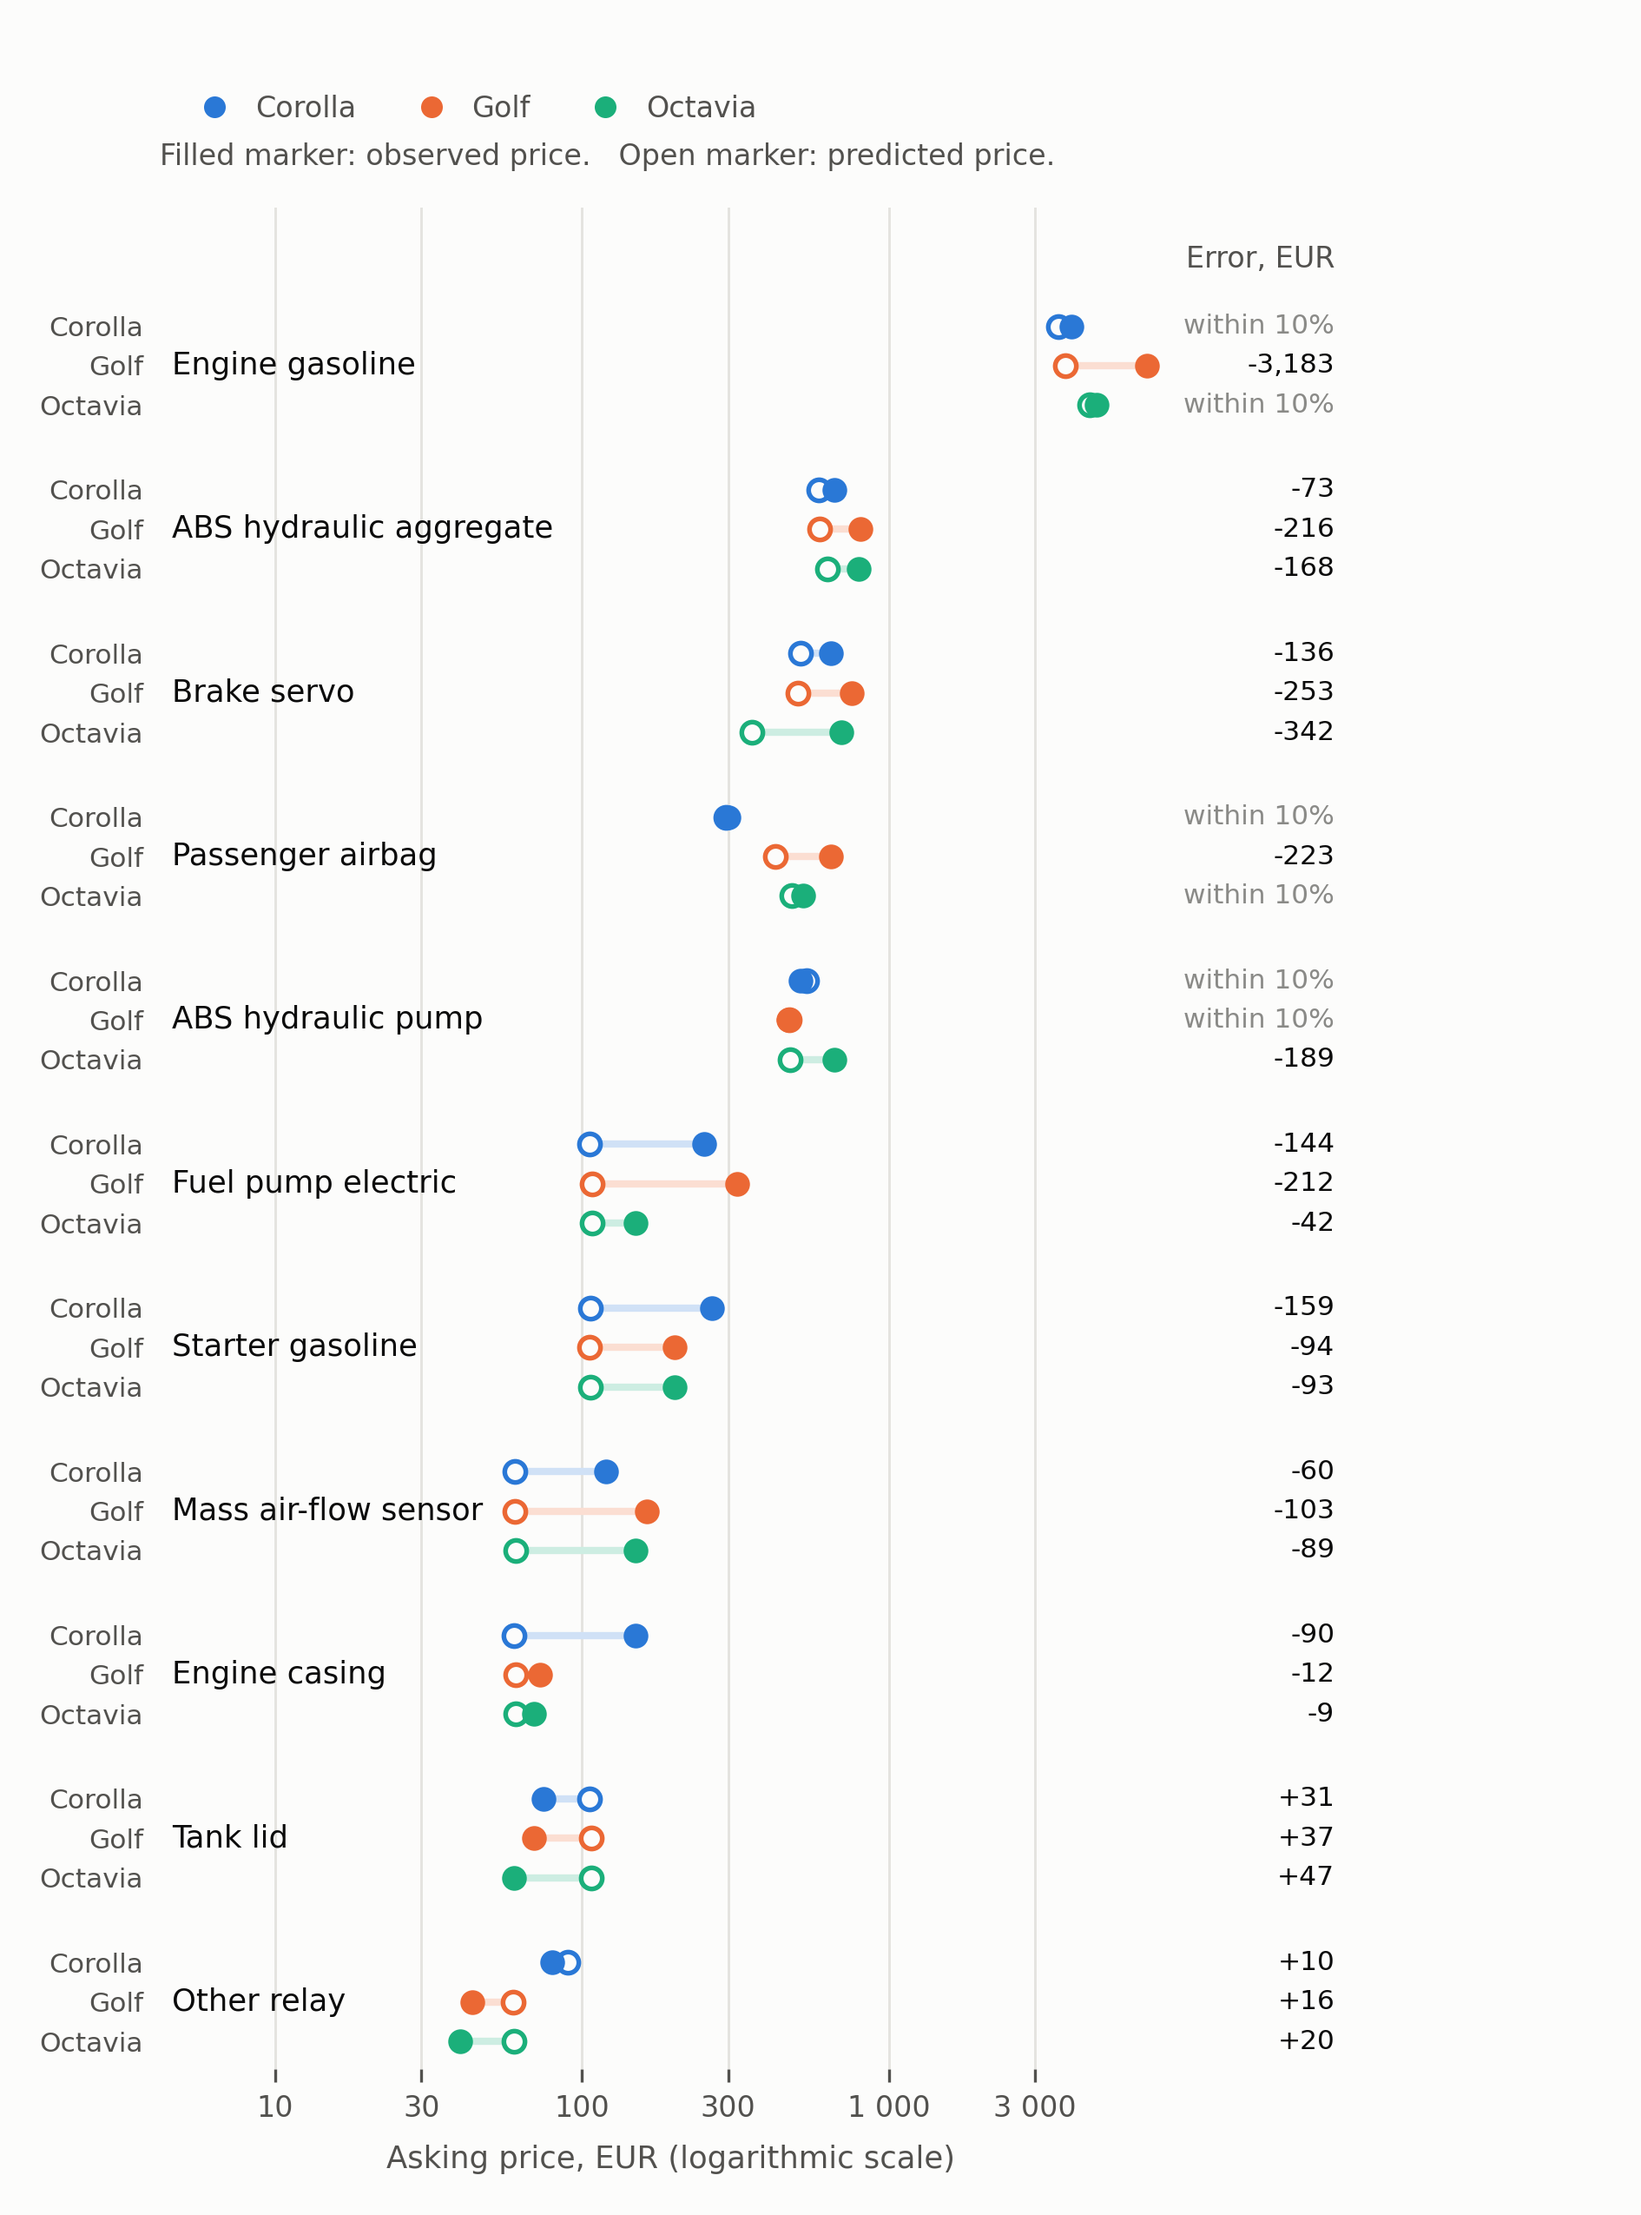
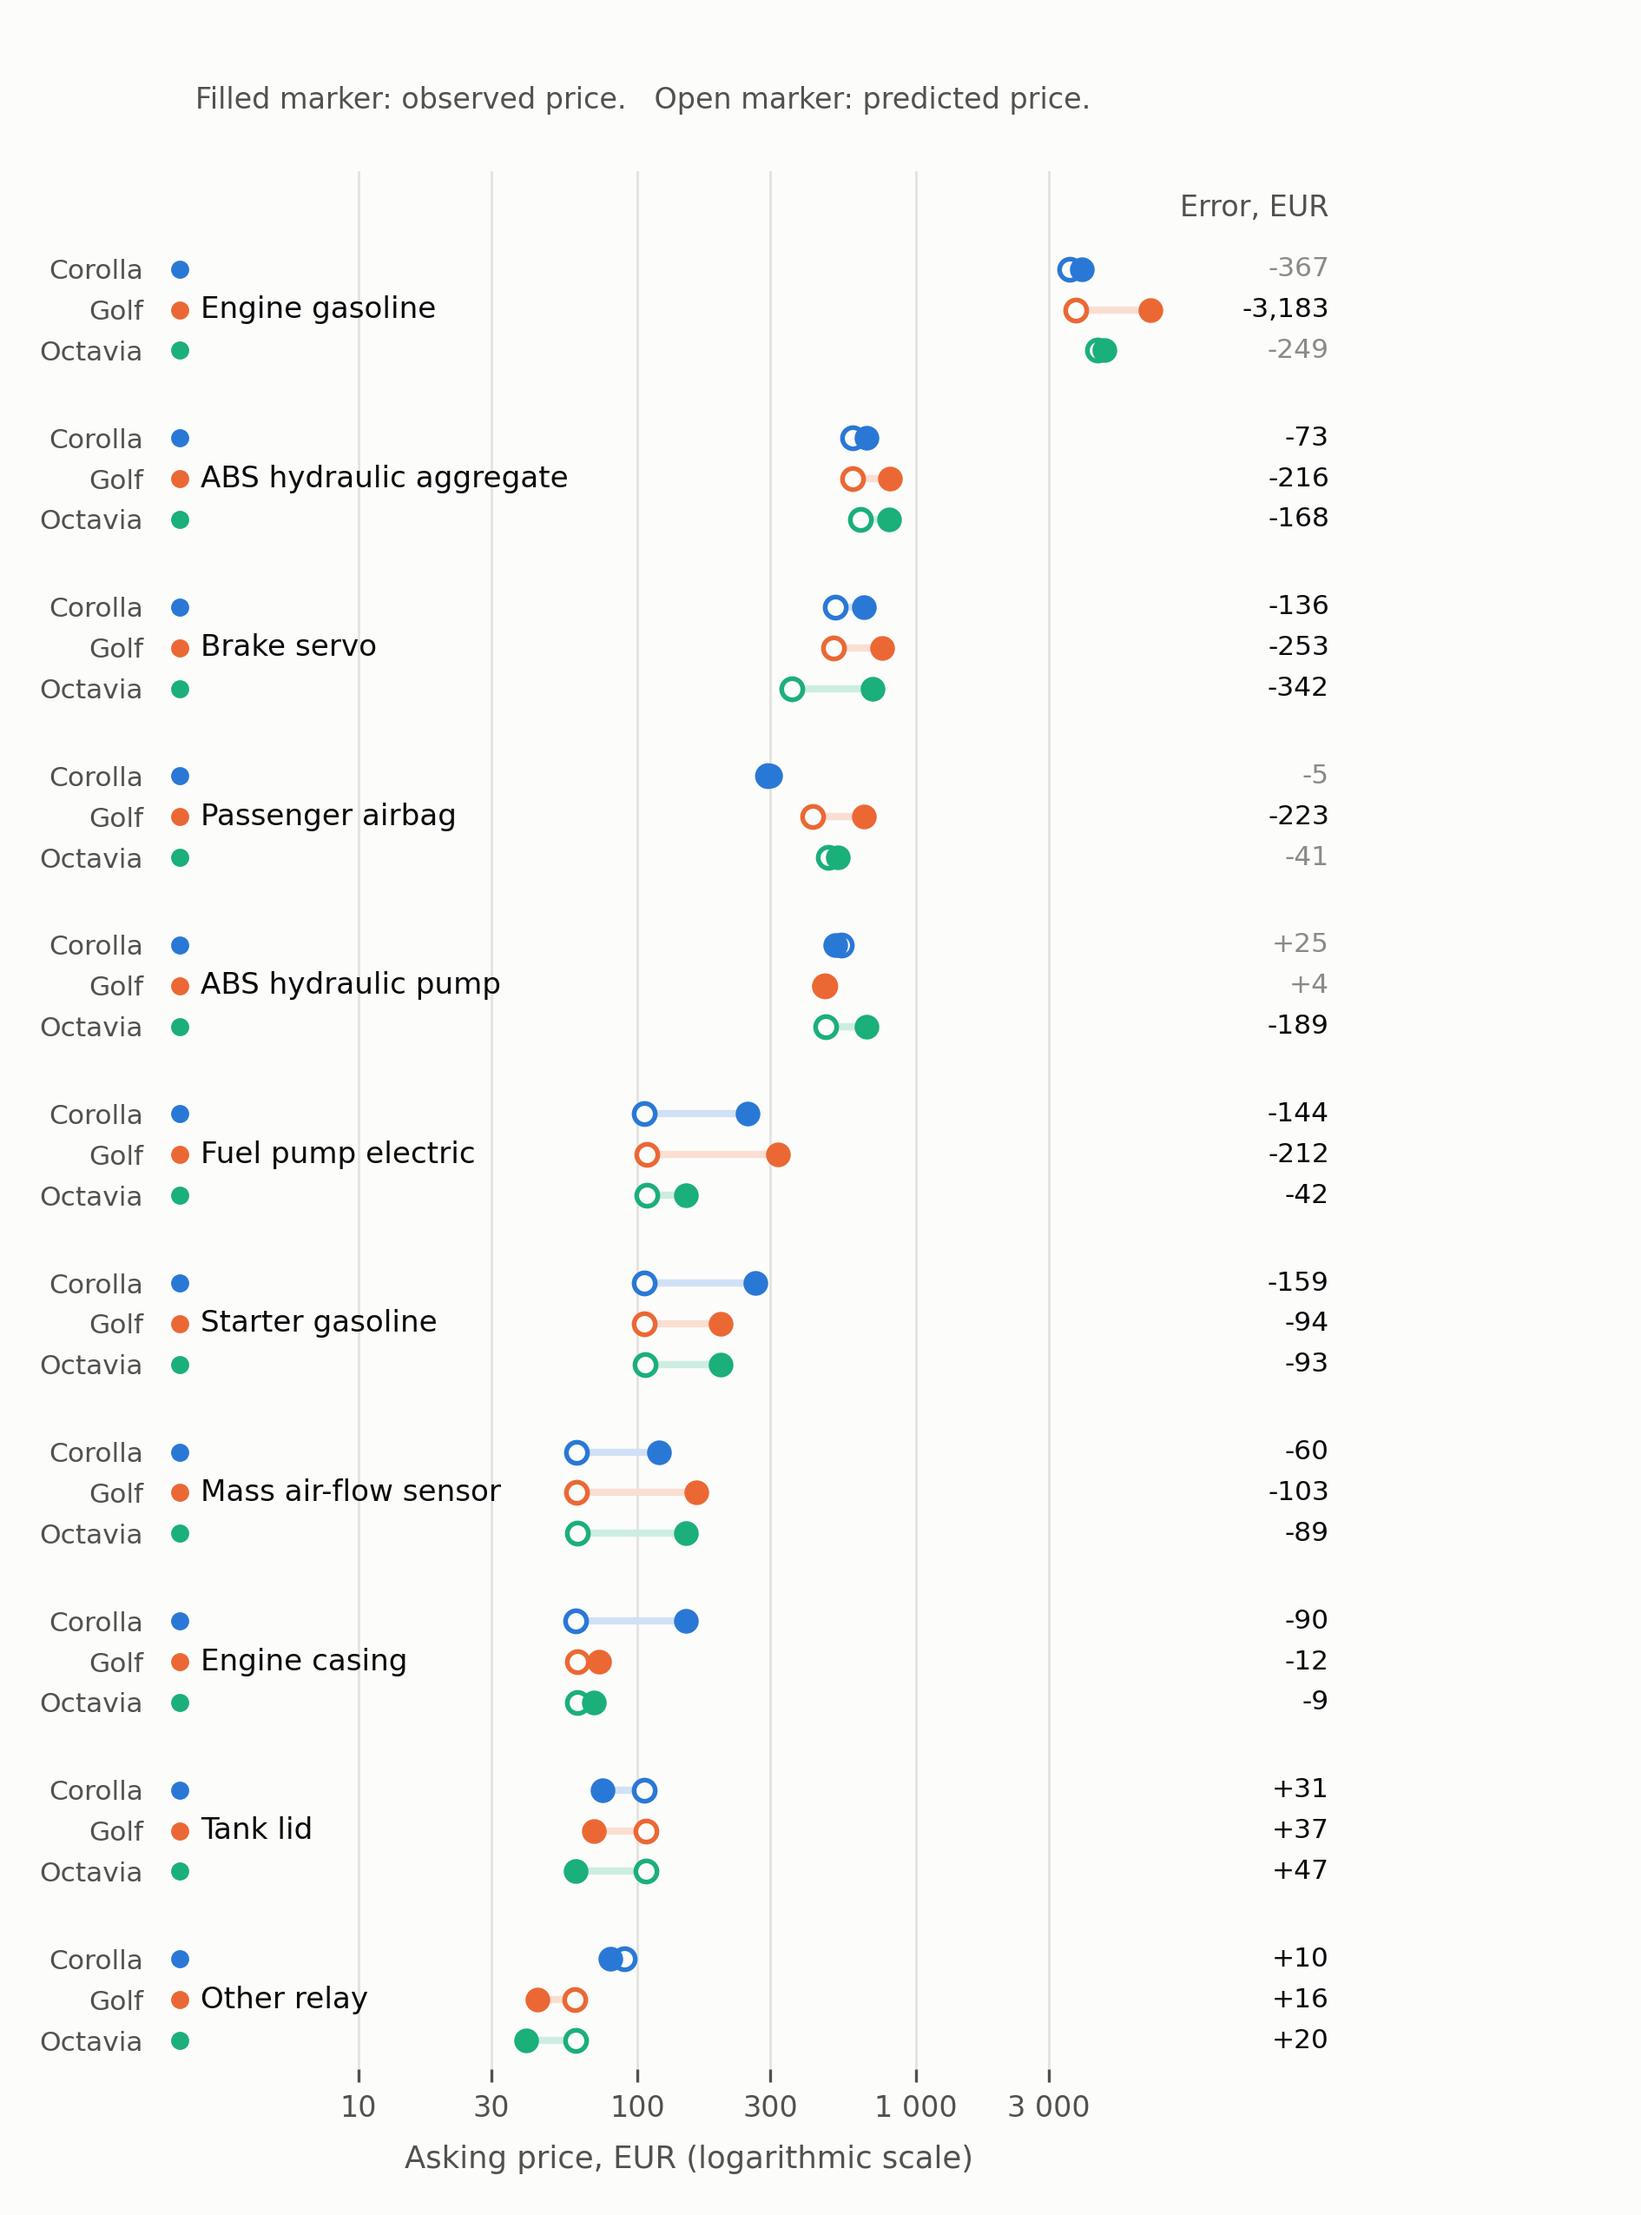
Put the car colour beside each row and show every error in euros

diff --git a/scripts/plot_september_validation.py b/scripts/plot_september_validation.py
@@ -162,7 +162,7 @@ def main():
         for position, cell in enumerate(cells.itertuples())
     ])
     cells = cells.assign(row=rows)
-    label_x = 4.6
+    label_x = 2.7
     # the euros column lives outside the plot, so the gridlines stop at the data
     outside = blended_transform_factory(axes.transAxes, axes.transData)
 
@@ -178,21 +178,24 @@ def main():
         off = cell.euros_off
         close = abs(off) < 0.1 * cell.price
         axes.text(
-            1.15, row, "within 10%" if close else f"{off:+,.0f}",
-            transform=outside, va="center", ha="right", fontsize=7.5,
-            color=MUTED if close else INK,
+            1.15, row, f"{off:+,.0f}", transform=outside, va="center", ha="right",
+            fontsize=7.5, color=MUTED if close else INK,
         )
 
     # one part label per group; the blank rows do the separating
     for _, group in cells.groupby("part_rank"):
         axes.text(label_x, group.row.mean(), academic(group.subcategory.iat[0]),
-                  va="center", ha="left", fontsize=8.5, color=INK)
+                  va="center", ha="left", fontsize=8.2, color=INK)
 
     axes.set_yticks(rows, [car.capitalize() for car in cells.car], fontsize=7.5)
-    axes.tick_params(axis="y", pad=1)
+    axes.tick_params(axis="y", pad=11)
+    # the car's colour sits beside its own row rather than in a key at the top
+    for row, car in zip(rows, cells.car):
+        axes.plot(-0.016, row, marker="o", markersize=4, color=CAR_COLOUR[car],
+                  transform=outside, clip_on=False, zorder=5)
     axes.set_xscale("log")
-    axes.set_xlim(4.2, 9000)
-    axes.set_ylim(rows.max() + 0.7, -3.0)
+    axes.set_xlim(2.6, 9000)
+    axes.set_ylim(rows.max() + 0.7, -2.4)
     axes.set_xticks([10, 30, 100, 300, 1000, 3000],
                     ["10", "30", "100", "300", "1 000", "3 000"], fontsize=8)
     axes.set_xticks([], minor=True)
@@ -206,24 +209,11 @@ def main():
 
     # direct labels on the first row instead of a legend box
     first = cells.iloc[0]
-    # One colour key for the cars. The marker shape is explained in words
-    # underneath rather than as a second legend: two legends on a 16 cm figure
-    # end up on the same line and overlap.
-    car_key = [
-        Line2D([], [], marker="o", linestyle="none", markersize=5,
-               color=CAR_COLOUR[car], label=car.capitalize())
-        for car in CAR_ORDER
-    ]
-    axes.legend(
-        handles=car_key, frameon=False, fontsize=8, labelcolor=INK2,
-        loc="upper left", bbox_to_anchor=(0.0, 1.075), ncol=3,
-        handletextpad=0.4, columnspacing=1.6,
-    )
     axes.text(
-        0.0, 1.035, "Filled marker: observed price.   Open marker: predicted price.",
+        0.0, 1.045, "Filled marker: observed price.   Open marker: predicted price.",
         transform=axes.transAxes, fontsize=8, color=INK2, va="top",
     )
-    axes.text(1.15, -1.7, "Error, EUR", transform=outside, va="center", ha="right",
+    axes.text(1.15, -1.5, "Error, EUR", transform=outside, va="center", ha="right",
               fontsize=8, color=INK2)
 
     # No in-image title: in the thesis the caption below the figure carries it.
